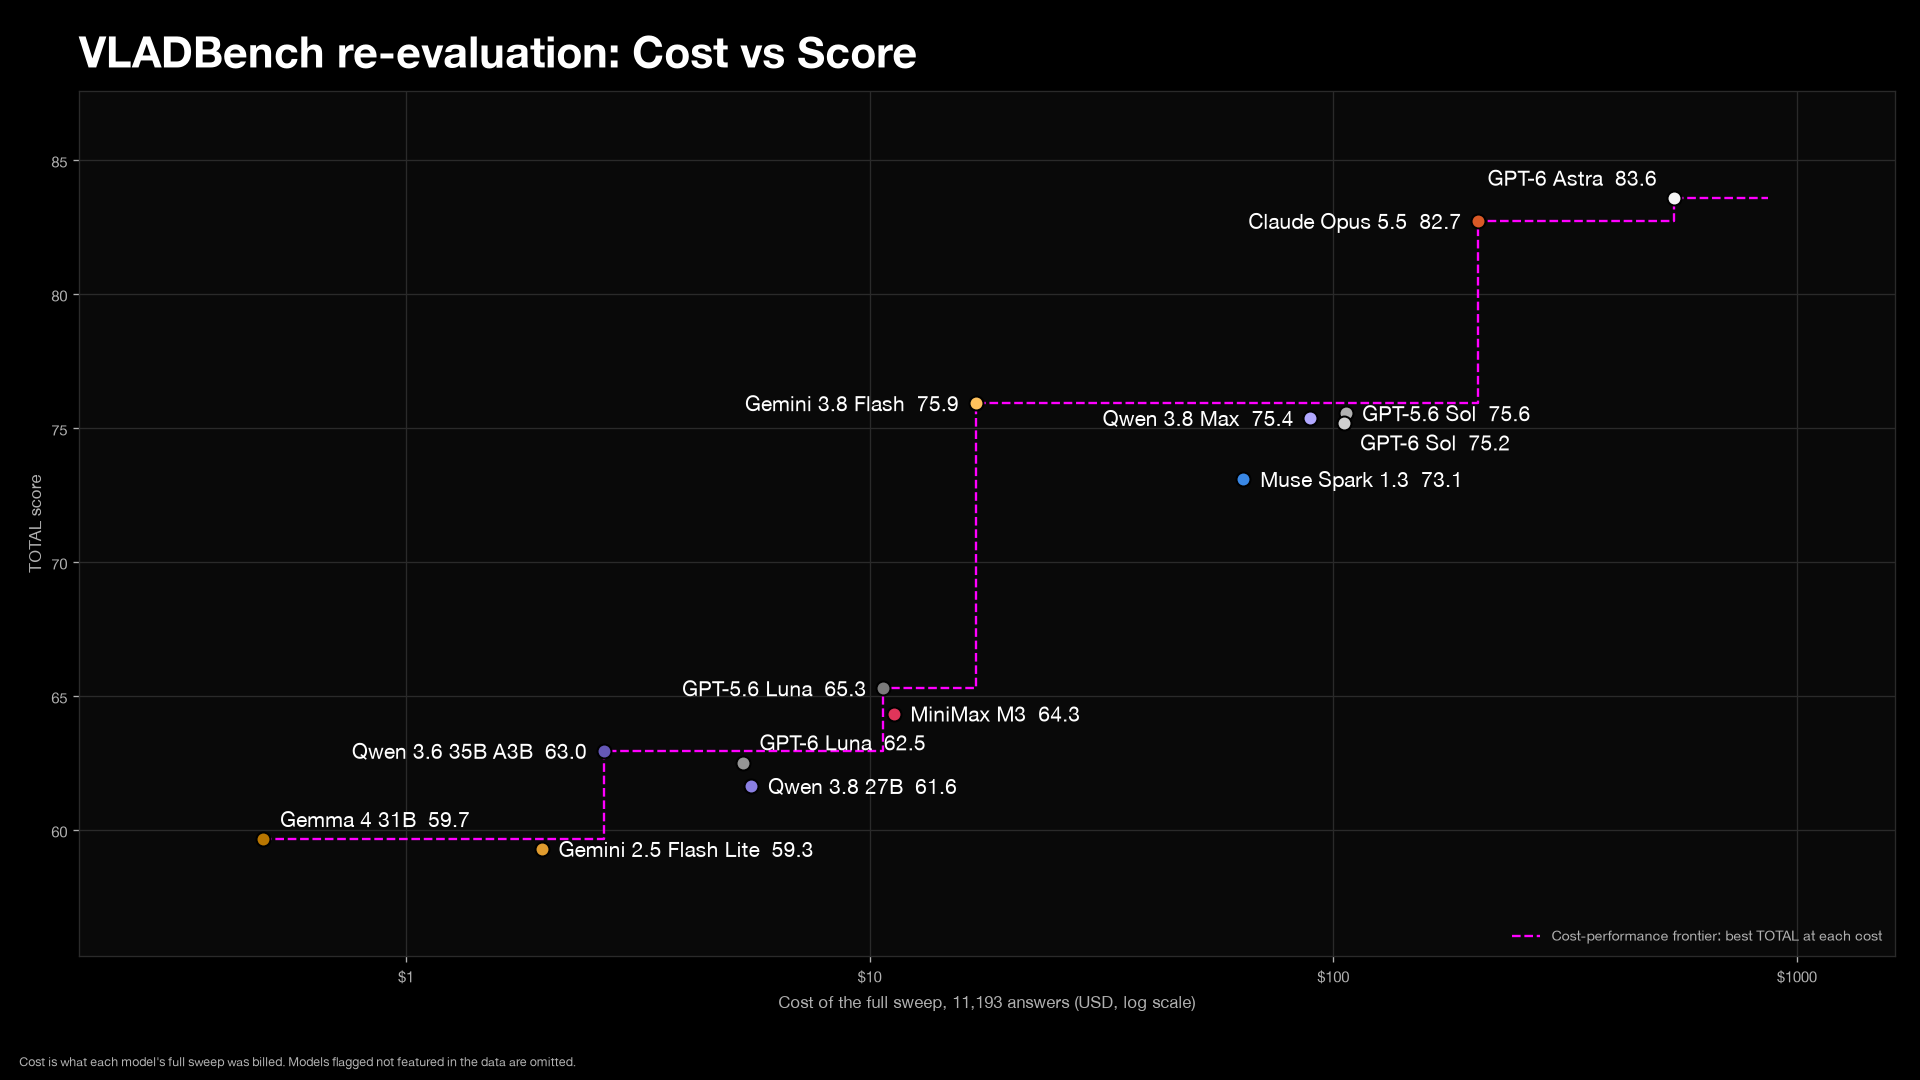
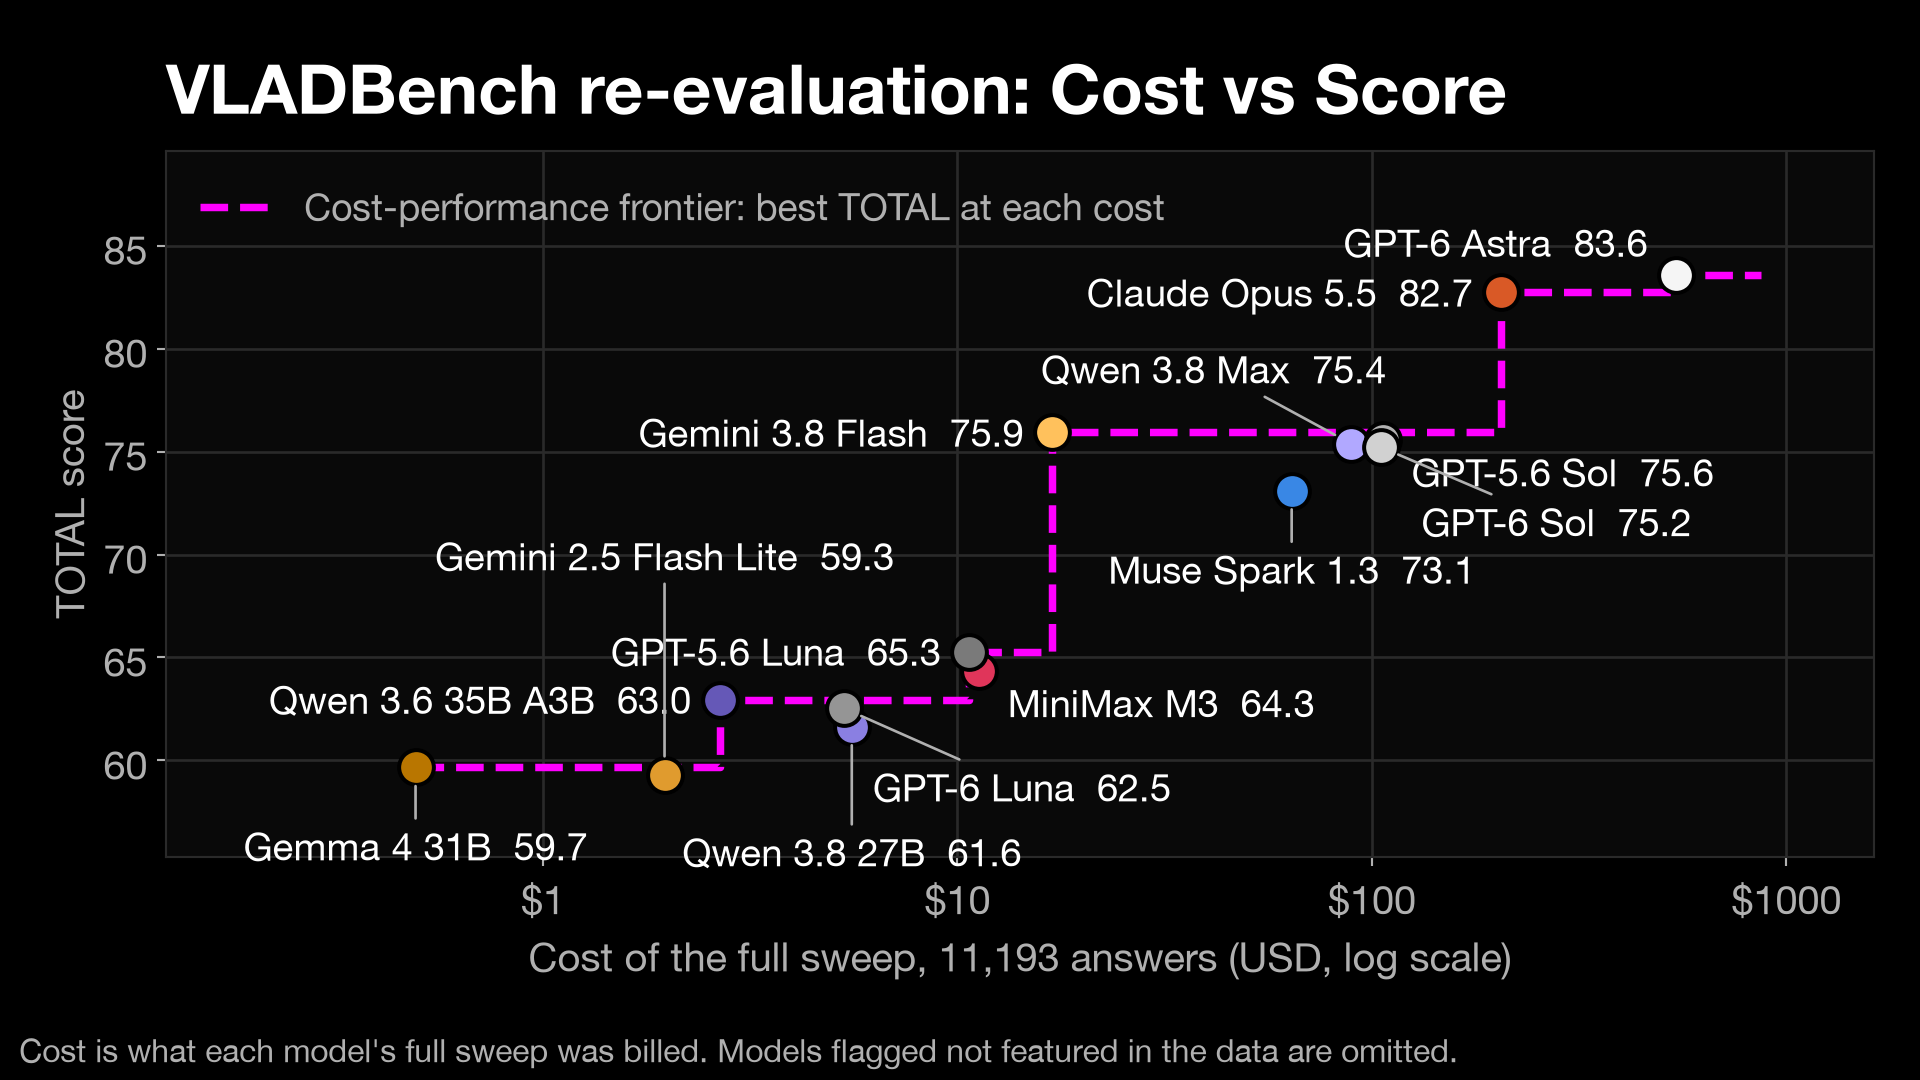
Figures and embeds readable at blog width: larger text, markers, and frontier line; leader lines for displaced labels; cost plot and distribution drawn at container width

diff --git a/web/results.js b/web/results.js
@@ -259,12 +259,12 @@ function placeLabels(points, x, y, bounds) {
     let chosen = null;
     for (let pass = 0; pass < 6 && !chosen; pass += 1) {
       for (const [dx, dy, anchor] of candidates) {
-        const ly = cy + dy + pass * 14;
+        const ly = cy + dy + (dy <= 0 ? -1 : 1) * pass * 14;   // push away from the dot
         const bx = anchor === "start" ? cx + dx : anchor === "end" ? cx + dx - w : cx - w / 2;
         const box = { x: bx, y: ly - 10, w, h };
         if (box.x < bounds.x0 || box.x + w > bounds.x1 || box.y < bounds.y0 || box.y + h > bounds.y1) continue;
         if (boxes.some((b) => overlaps(box, b))) continue;
-        chosen = { x: cx + dx, y: ly, anchor, box };
+        chosen = { x: cx + dx, y: ly, anchor, box, pushed: pass > 0 };
         break;
       }
     }
@@ -296,7 +296,8 @@ function renderCostScore() {
   const select = $("box-reading");
   if (select) select.value = costState.reading;
   const points = costPoints(costState.reading);
-  const width = 1180, height = 460, margin = { top: 24, right: 48, bottom: 52, left: 54 };
+  // Fit the drawing to its container so text keeps its CSS size; a hidden tab has no width and gets the full layout.
+  const width = Math.max(560, Math.min(1180, chart.clientWidth || 1180)), height = Math.max(340, Math.min(460, Math.round(width * 0.55))), margin = { top: 24, right: 48, bottom: 52, left: 54 };
   const plotW = width - margin.left - margin.right, plotH = height - margin.top - margin.bottom;
   const costs = points.map((p) => p.cost);
   const scores = points.map((p) => p.score);
@@ -338,8 +339,10 @@ function renderCostScore() {
 
   const bounds = { x0: margin.left + 2, x1: margin.left + plotW - 2, y0: margin.top, y1: margin.top + plotH };
   const labels = placeLabels(points.slice().sort((a, b) => b.score - a.score), x, y, bounds);
-  for (const { point: p, x: lx, y: ly, anchor } of labels) {
+  for (const { point: p, x: lx, y: ly, anchor, box, pushed } of labels) {
     const cx = x(p.cost), cy = y(p.score);
+    // A label pushed away from its dot gets a leader line to the nearest point of its box.
+    if (pushed) root.append(svg("line", { x1: cx, y1: cy, x2: Math.max(box.x, Math.min(cx, box.x + box.w)), y2: cy < box.y ? box.y : box.y + box.h, class: "chart-leader" }));
     const dot = svg("circle", { cx, cy, r: 6.5, fill: p.model.color, stroke: p.gpu ? "#fff" : "#08080b", "stroke-width": 1.5, "stroke-dasharray": p.gpu ? "2 2" : null });
     dot.append(svg("title", {}, `${p.model.label} · TOTAL ${p.score.toFixed(2)} · task scores middle half ${p.spread.p25.toFixed(1)}–${p.spread.p75.toFixed(1)} · ${money(p.cost)}${p.gpu ? " GPU hours" : ""}${frontier.includes(p) ? " · on the frontier" : ""}`));
     root.append(dot, svg("text", { x: lx, y: ly, class: "chart-point-label", "text-anchor": anchor }, p.text));
@@ -1020,3 +1023,10 @@ buildTaskFilter();
 renderAll();
 renderPaperFormat();
 wireHeatPicker();
+
+// The cost plot and the distribution draw at their container's width; redraw them when that width changes.
+let refit = 0;
+const redrawFitted = () => { renderCostScore(); if (typeof renderDistribution === "function") renderDistribution(); };
+window.addEventListener("resize", () => { clearTimeout(refit); refit = setTimeout(redrawFitted, 150); });
+for (const button of document.querySelectorAll('.tabs [role="tab"]')) button.addEventListener("click", redrawFitted);
+window.addEventListener("hashchange", redrawFitted);

diff --git a/web/results.css b/web/results.css
@@ -1032,6 +1032,7 @@ summary {
 .cost-score-panel { padding: 14px 16px; }
 .chart-axis { fill: var(--muted); font-size: 11px; }
 .chart-point-label { fill: var(--ink); font-size: 11px; }
+.chart-leader { stroke: var(--muted); stroke-width: 1; }
 
 .chart-iso { fill: none; stroke: var(--dim); stroke-width: 1; stroke-dasharray: 2 3; }
 .chart-iso-label { fill: var(--dim); font-size: 10px; }
@@ -1243,19 +1244,19 @@ body.embed .overview-grid { gap: 10px; }
 .wheel { display: flex; justify-content: center; }
 .wheel svg { width: min(100%, 860px); height: auto; }
 .wheel-guide { fill: none; stroke: var(--line); stroke-width: 1; }
-.wheel-tick { fill: var(--muted); font-size: 10px; }
+.wheel-tick { fill: var(--muted); font-size: 13px; }
 .wheel-domain { fill: #1a1520; stroke: var(--bg); stroke-width: 2; }
 .wheel-domain.d0 { fill: #2a1b3a; } .wheel-domain.d1 { fill: #1d2a3a; } .wheel-domain.d2 { fill: #1b3330; } .wheel-domain.d3 { fill: #3a2a1b; } .wheel-domain.d4 { fill: #3a1b2c; }
 .wheel-group { fill: #17141c; stroke: var(--bg); stroke-width: 2; }
-.wheel-domain-label { fill: var(--ink); font-size: 10.5px; font-weight: 600; dominant-baseline: middle; letter-spacing: 0.02em; }
-.wheel-group-label { fill: var(--muted); font-size: 9.5px; dominant-baseline: middle; }
-.wheel-task-label { fill: var(--ink); font-size: 10px; dominant-baseline: middle; pointer-events: none; }
+.wheel-domain-label { fill: var(--ink); font-size: 14px; font-weight: 600; dominant-baseline: middle; letter-spacing: 0.02em; }
+.wheel-group-label { fill: var(--muted); font-size: 12.5px; dominant-baseline: middle; }
+.wheel-task-label { fill: var(--ink); font-size: 12px; dominant-baseline: middle; pointer-events: none; }
 .wheel-wedge { fill: transparent; stroke: var(--line); stroke-width: 0.6; cursor: pointer; }
 .wheel-wedge:hover { fill: #ffffff0c; }
 .wheel-bar { cursor: pointer; }
 .wheel-bar:hover, .wheel-bar:focus { stroke: var(--ink); stroke-width: 1; outline: none; }
-.wheel-center { fill: var(--ink); font-size: 16px; font-weight: 700; font-family: "Helvetica Neue", Helvetica, Arial, sans-serif; }
-.wheel-center.sub { fill: var(--muted); font-size: 11px; font-weight: 400; font-family: inherit; }
+.wheel-center { fill: var(--ink); font-size: 24px; font-weight: 700; font-family: "Helvetica Neue", Helvetica, Arial, sans-serif; }
+.wheel-center.sub { fill: var(--muted); font-size: 16px; font-weight: 400; font-family: inherit; }
 .wheel-axis { stroke: var(--line); stroke-width: 1; }
 .wheel-axis-label { fill: var(--ink); font-size: 12px; }
 .wheel-axis-sub { fill: var(--muted); font-size: 10px; }

diff --git a/web/analysis.js b/web/analysis.js
@@ -98,10 +98,12 @@ function renderDistribution() {
     analysis.sort = `${view === "both" ? "shift" : view}.${stat}`;
   }
   const rows = sortedStats();
-  const rowH = view === "both" ? 30 : 22, left = 210, plotW = 560, top = 30;
+  const rowH = view === "both" ? 30 : 22, left = 210, top = 30;
   const groups = view === "both" ? [["shift", "Δ 2026 − 2025"]] : [[view, view]];
   const colW = 52, groupGap = 14;
   const right = groups.length * (3 * colW + groupGap) + 20;
+  // Fit the drawing to its container so text keeps its CSS size; a hidden tab has no width and gets the full layout.
+  const plotW = Math.max(220, Math.min(560, (host.clientWidth || 1e4) - left - right));
   let cursor = top, previousGroup = null;
   const headings = [];
   const positions = rows.map((row) => {

diff --git a/src/vladbench/figures.py b/src/vladbench/figures.py
@@ -6,6 +6,7 @@ from __future__ import annotations
 
 from collections.abc import Mapping, Sequence
 from pathlib import Path
+from typing import Any
 
 from .aggregate import Point, frontier, total
 from .record import Record
@@ -55,24 +56,59 @@ def _choose_anchor(cx, cy, w, h, px_per_pt, boxes, bounds):
     return 10, 0, "left", _label_box(cx, cy, 10, 0, "left", w, h, px_per_pt)
 
 
-def _place_labels(ax, points: Sequence[dict]) -> None:
-    """Greedy placement in pixel space: each label takes the first anchor that overlaps no dot or earlier label."""
+def _segment_boxes(ax, xs: Sequence[float], ys: Sequence[float], pad: float) -> list[tuple]:
+    """Pixel boxes around each segment of a staircase, so labels avoid crossing it."""
+    pts = [ax.transData.transform((x, y)) for x, y in zip(xs, ys, strict=True)]
+    return [(min(a[0], b[0]) - pad, min(a[1], b[1]) - pad, abs(a[0] - b[0]) + 2 * pad, abs(a[1] - b[1]) + 2 * pad)
+            for a, b in zip(pts, pts[1:], strict=False)]
+
+
+def _place_labels(ax, points: Sequence[dict], stair: tuple[list[float], list[float]]) -> None:
+    """Greedy placement in pixel space: each label takes the first anchor that overlaps no dot or earlier label.
+
+    Label sizes are measured with the renderer. A label pushed away from its dot gets a thin leader line.
+    """
     import matplotlib.pyplot as plt
 
     fig = ax.figure
     fig.canvas.draw()
+    renderer = fig.canvas.get_renderer()  # type: ignore[attr-defined]
     to_px = ax.transData.transform
     px_per_pt = fig.dpi / 72
     fs = plt.rcParams["font.size"] * 0.9
-    char_w, h = fs * 0.58 * px_per_pt, fs * 1.25 * px_per_pt
-    boxes = [(*(to_px((p["cost"], p["score"])) - 7 * px_per_pt), 14 * px_per_pt, 14 * px_per_pt) for p in points]
+    boxes = [(*(to_px((p["cost"], p["score"])) - 9 * px_per_pt), 18 * px_per_pt, 18 * px_per_pt) for p in points]
+    boxes += _segment_boxes(ax, *stair, pad=2 * px_per_pt)
     bounds = (ax.bbox.x0, ax.bbox.y0, ax.bbox.x1, ax.bbox.y1)
+    placed: list[dict[str, Any]] = []
     for p in sorted(points, key=lambda p: -p["score"]):
         text = f"{p['label']}  {p['score']:.1f}"
+        probe = ax.text(0, 0, text, fontsize=fs)
+        extent = probe.get_window_extent(renderer)
+        probe.remove()
         cx, cy = to_px((p["cost"], p["score"]))
-        dx, dy, ha, box = _choose_anchor(cx, cy, len(text) * char_w, h, px_per_pt, boxes, bounds)
+        dx, dy, ha, box = _choose_anchor(cx, cy, extent.width + 4, extent.height + 2, px_per_pt, boxes, bounds)
         boxes.append(box)
-        ax.annotate(text, (p["cost"], p["score"]), xytext=(dx, dy), textcoords="offset points", ha=ha, va="center", fontsize=fs, color=INK)
+        placed.append({"p": p, "text": text, "dot": (cx, cy), "centre": (box[0] + box[2] / 2, box[1] + box[3] / 2),
+                       "leader": abs(dy) > 12})
+    _uncross(placed)
+    for q in placed:
+        (cx, cy), (lx, ly) = q["dot"], q["centre"]
+        leader = {"arrowstyle": "-", "color": MUTED, "linewidth": 1.0, "shrinkA": 0, "shrinkB": 7} if q["leader"] else None
+        ax.annotate(q["text"], (q["p"]["cost"], q["p"]["score"]), xytext=((lx - cx) / px_per_pt, (ly - cy) / px_per_pt),
+                    textcoords="offset points", ha="center", va="center", fontsize=fs, color=INK, arrowprops=leader)
+
+
+def _uncross(placed: list[dict]) -> None:
+    """Swap the label positions of two leader lines when that shortens them; this also removes every crossing."""
+    import math
+
+    for a in placed:
+        for b in placed:
+            if a is b or not (a["leader"] and b["leader"]):
+                continue
+            now = math.dist(a["dot"], a["centre"]) + math.dist(b["dot"], b["centre"])
+            if math.dist(a["dot"], b["centre"]) + math.dist(b["dot"], a["centre"]) < now:
+                a["centre"], b["centre"] = b["centre"], a["centre"]
 
 
 def _style_axes(ax, points: Sequence[dict]) -> None:
@@ -80,27 +116,31 @@ def _style_axes(ax, points: Sequence[dict]) -> None:
 
     ax.set_facecolor(PANEL)
     ax.set_xscale("log")
-    ax.grid(True, color=LINE, linewidth=0.8)
+    ax.grid(True, color=LINE, linewidth=1.0)
     for spine in ax.spines.values():
         spine.set_color(LINE)
-    ax.tick_params(colors=MUTED, labelsize=9)
+    ax.tick_params(colors=MUTED, labelsize=15)
     scores, costs = [p["score"] for p in points], [p["cost"] for p in points]
-    ax.set_ylim(min(scores) - 4, max(scores) + 4)
-    ax.set_xlim(min(costs) / 2.5, max(costs) * 3)
+    ax.set_ylim(min(scores) - 4, max(scores) + 6)
+    ax.set_xlim(min(costs) / 4, max(costs) * 3)
     ax.xaxis.set_major_formatter(matplotlib.ticker.FuncFormatter(lambda v, _: f"${v:g}"))
-    ax.set_xlabel("Cost of the full sweep, 11,193 answers (USD, log scale)", color=MUTED, fontsize=10)
-    ax.set_ylabel("TOTAL score", color=MUTED, fontsize=10)
+    ax.set_xlabel("Cost of the full sweep, 11,193 answers (USD, log scale)", color=MUTED, fontsize=15)
+    ax.set_ylabel("TOTAL score", color=MUTED, fontsize=15)
 
 
 def _draw(ax, points: Sequence[dict]) -> None:
     front = frontier(Point(p["id"], p["cost"], p["score"]) for p in points)
-    xs, ys = [p.cost for p in front], [p.score for p in front]
-    ax.step(xs + [max(p["cost"] for p in points) * 1.6], ys + [ys[-1]], where="post", color=ACCENT, linestyle="--", linewidth=1.4,
-            label="Cost-performance frontier: best TOTAL at each cost")
+    xs, ys = [front[0].cost], [front[0].score]
+    for a, b in zip(front, front[1:], strict=False):
+        xs += [b.cost, b.cost]
+        ys += [a.score, b.score]
+    xs.append(max(p["cost"] for p in points) * 1.6)
+    ys.append(ys[-1])
+    ax.plot(xs, ys, color=ACCENT, linestyle="--", linewidth=2.8, label="Cost-performance frontier: best TOTAL at each cost")
     for p in points:
-        ax.scatter(p["cost"], p["score"], s=70, color=p["colour"], edgecolors=BG, linewidths=1.2, zorder=3)
-    _place_labels(ax, points)
-    ax.legend(loc="lower right", fontsize=8.5, frameon=False, labelcolor=MUTED)
+        ax.scatter(p["cost"], p["score"], s=170, color=p["colour"], edgecolors=BG, linewidths=1.5, zorder=3)
+    _place_labels(ax, points, (xs, ys))
+    ax.legend(loc="upper left", fontsize=14, frameon=False, labelcolor=MUTED)
 
 
 def render_cost_score(record: Record, registry: Mapping[str, ModelInfo], out: Path, *, hero: bool = False) -> Path:
@@ -112,13 +152,14 @@ def render_cost_score(record: Record, registry: Mapping[str, ModelInfo], out: Pa
     points = cost_points(record, registry)
     families = {f.name for f in font_manager.fontManager.ttflist}
     plt.rcParams["font.family"] = "Helvetica Neue" if "Helvetica Neue" in families else "Helvetica"
-    plt.rcParams["font.size"] = 14 if hero else 10
-    fig, ax = plt.subplots(figsize=(16, 9) if hero else (10, 5.6), dpi=120 if hero else 200, facecolor=BG)
+    # Sized for a blog column about 650 px wide: at 10 in across, 1 pt renders as about 0.9 px on screen.
+    plt.rcParams["font.size"] = 16
+    fig, ax = plt.subplots(figsize=(10, 5.625), dpi=192 if hero else 200, facecolor=BG)
     _style_axes(ax, points)
     _draw(ax, points)
-    ax.set_title("VLADBench re-evaluation: Cost vs Score" if hero else "Cost vs Score", loc="left", color=INK, fontsize=26 if hero else 15, fontweight="bold", pad=14)
-    fig.text(0.01, 0.01, FOOTNOTE, color=MUTED, fontsize=7.5, va="bottom")
-    fig.tight_layout(rect=(0, 0.04, 1, 1))
+    ax.set_title("VLADBench re-evaluation: Cost vs Score" if hero else "Cost vs Score", loc="left", color=INK, fontsize=26 if hero else 22, fontweight="bold", pad=14)
+    fig.text(0.01, 0.01, FOOTNOTE, color=MUTED, fontsize=12, va="bottom")
+    fig.tight_layout(rect=(0, 0.05, 1, 1))
     out.parent.mkdir(parents=True, exist_ok=True)
     fig.savefig(out, facecolor=BG)
     plt.close(fig)
